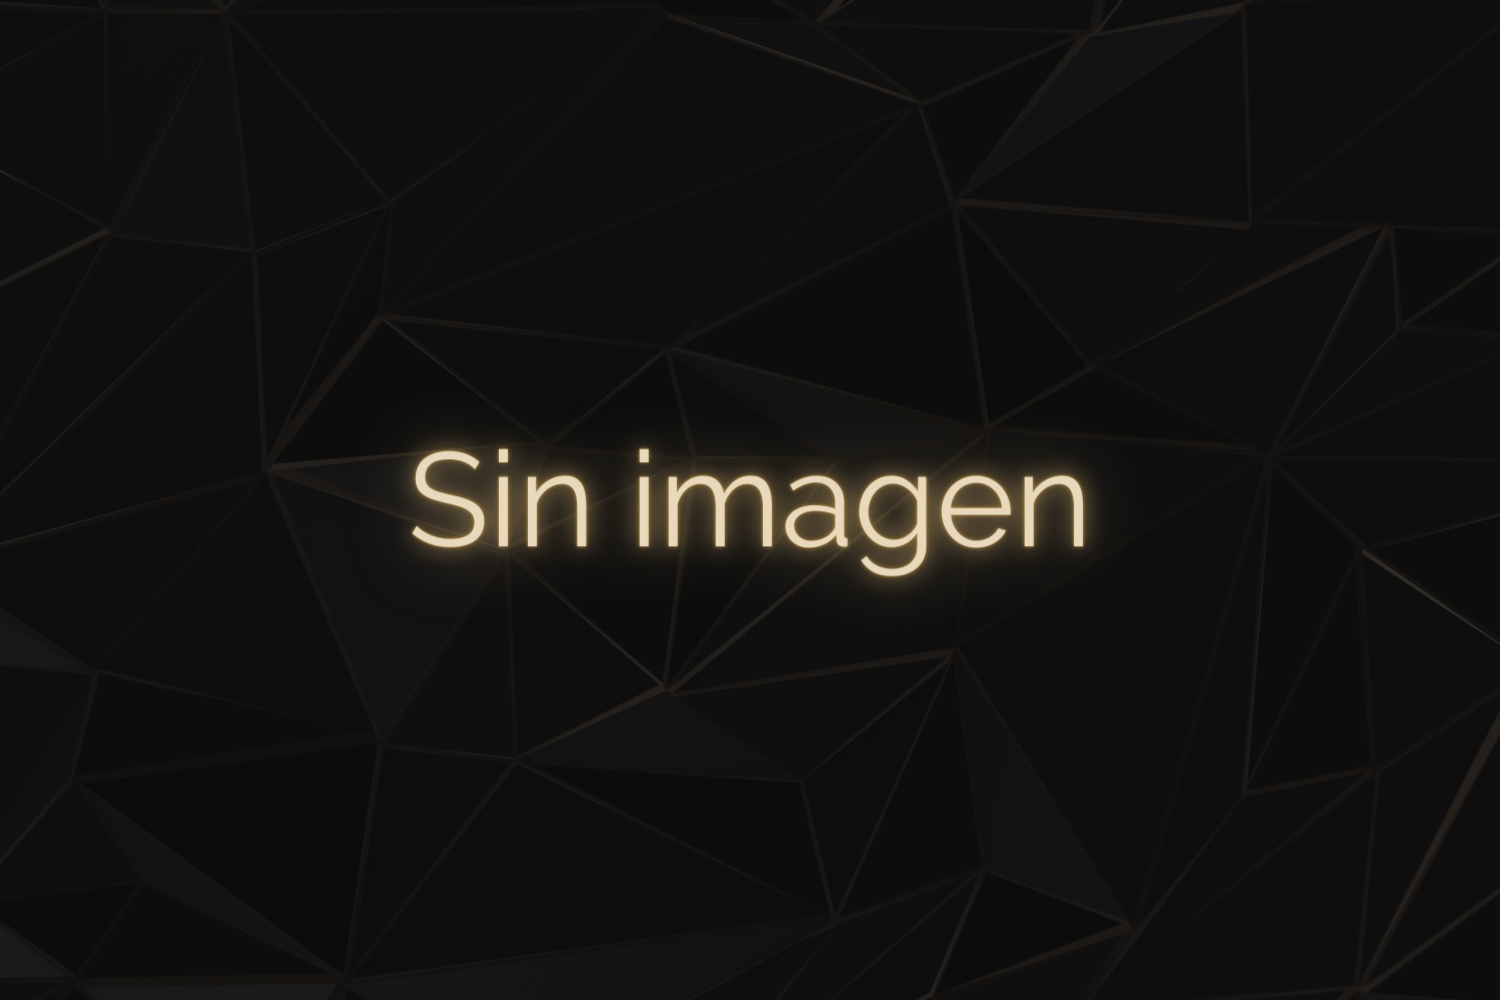
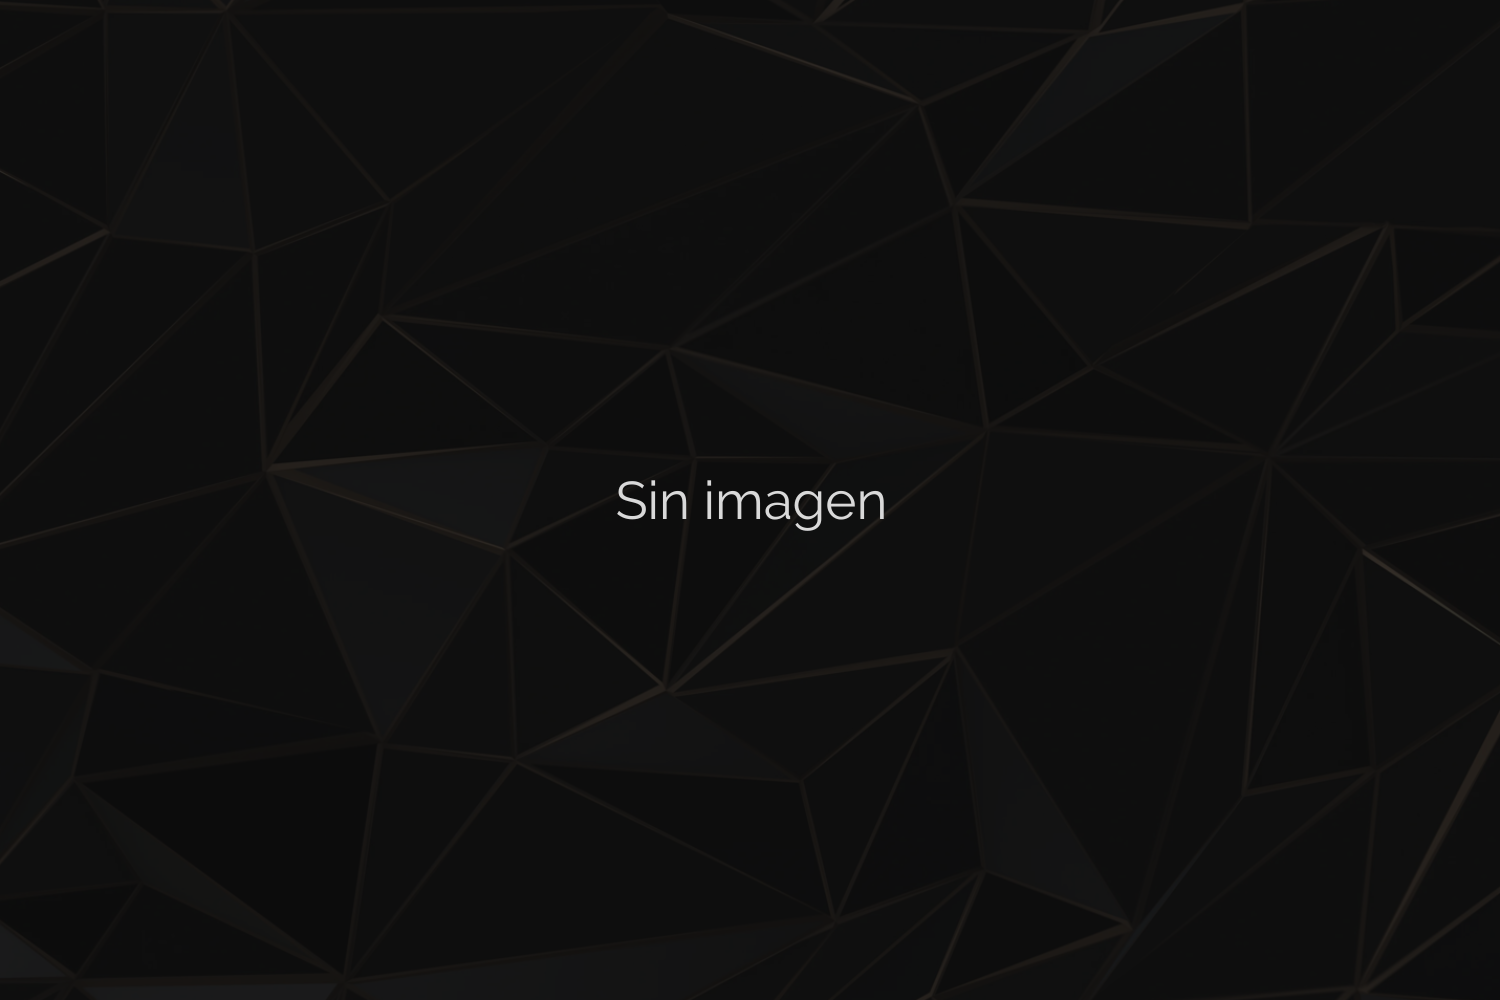
No image image

Changed region(s): [[0.2453, 0.434, 0.736, 0.589]]

diff --git a/components/LastProducts.tsx b/components/LastProducts.tsx
@@ -3,6 +3,8 @@ import { groq } from "next-sanity";
 import { useState, useEffect } from "react";
 import { client } from "../lib/sanity.client";
 import urlFor from "../lib/urlFor";
+import Image from "next/image";
+import noImg from "../img/no-img.png";
 
 function LastProducts() {
   const [lastProducts, setLastProducts] = useState<Product[]>();
@@ -49,14 +51,22 @@ function LastProducts() {
                         href={`product/slug/${product.slug.current}`}
                         className="group h-96 block bg-[#1a1a1a] hover:no-underline hover:text-[#b4a07c] rounded-t-lg overflow-hidden relative"
                       >
-                        {product.image && product.image ? (
+                        {product.image ? (
                           <img
                             src={urlFor(product.image).url()}
                             loading="eager"
                             alt={product.name}
                             className="w-full h-full object-cover object-center group-hover:scale-110 transition duration-200"
                           />
-                        ) : null}
+                        ) : (
+                          <Image
+                            src={noImg}
+                            loading="eager"
+                            priority={true}
+                            alt={product.name}
+                            className="w-full h-full object-cover object-center group-hover:scale-110 transition duration-200"
+                          ></Image>
+                        )}
                       </a>
 
                       <div className="flex justify-between items-start bg-[#0d0d0d] rounded-b-lg gap-2 p-4">

diff --git a/components/Store.tsx b/components/Store.tsx
@@ -1,4 +1,6 @@
 import urlFor from "../lib/urlFor";
+import Image from "next/image";
+import noImg from "../img/no-img.png";
 
 type Props = {
   products: Product[];
@@ -11,7 +13,7 @@ function Store({ products }: Props) {
         <div className="flex flex-wrap -m-4">
           {products &&
             products.map((product) => (
-              <div className="-z-10 pt-20 lg:w-1/4 md:w-1/2 p-4 w-full">
+              <div className="pt-20 lg:w-1/4 md:w-1/2 p-4 w-full">
                 <a
                   className="block h-48 rounded overflow-hidden text-gray-300 hover:no-underline hover:text-[#b4a07c]"
                   href={`/product/slug/${product.slug.current}`}
@@ -23,9 +25,13 @@ function Store({ products }: Props) {
                       src={urlFor(product.image).url()}
                     />
                   ) : (
-                    <p className="py-20 w-full h-full block border-2 border-[#463f31] text-[#463f31] font-semibold hover:text-[#b4a07c] transition-colors duration-300 transform">
-                      Toca para ver más
-                    </p>
+                    <Image
+                      src={noImg}
+                      loading="eager"
+                      priority={true}
+                      alt={product.name}
+                      className="w-full h-full object-cover object-center group-hover:scale-110 transition duration-200"
+                    ></Image>
                   )}
                 </a>
 

diff --git a/app/(user)/store/filter/[filter]/page.tsx b/app/(user)/store/filter/[filter]/page.tsx
@@ -1,4 +1,5 @@
 import { groq } from "next-sanity";
+import SearchFilters from "../../../../../components/SearchFilters";
 import Store from "../../../../../components/Store";
 import { client } from "../../../../../lib/sanity.client";
 
@@ -24,7 +25,18 @@ async function Product({ params: { filter } }: Props) {
 
   const products: Product[] = await client.fetch(query, { criteria });
 
-  return <Store products={products} />;
+  return (
+    <>
+      <section className="text-gray-400 body-font p-2 text-center">
+        <div className="container px-5 mx-auto">
+          <div className="flex flex-wrap -m-4">
+            <SearchFilters></SearchFilters>
+          </div>
+        </div>
+      </section>
+      <Store products={products} />
+    </>
+  );
 }
 
 export default Product;
